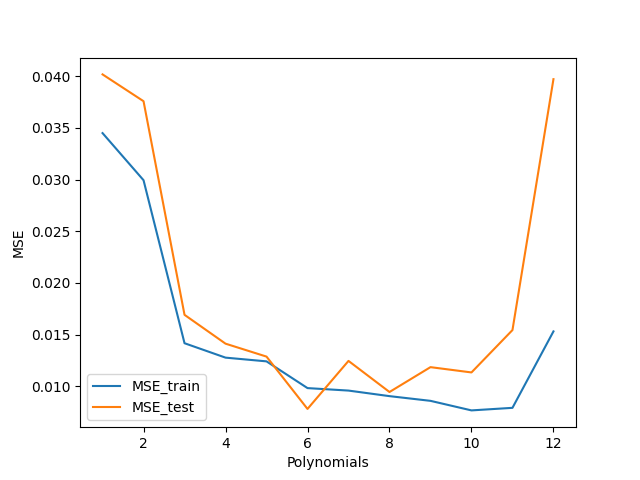
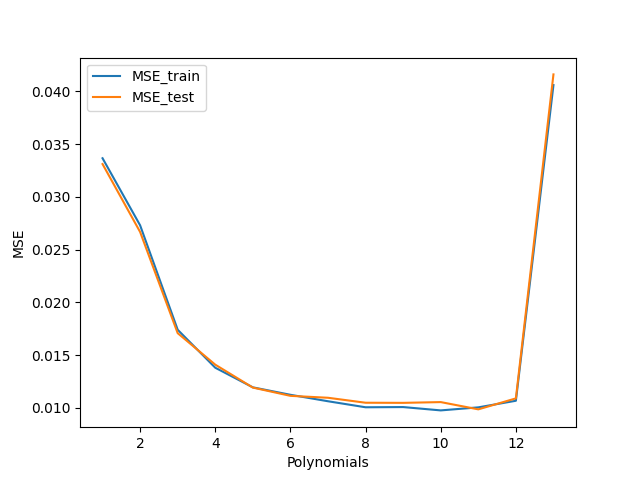
Added needed code for part C, do not remove

diff --git a/FigPartB.py b/FigPartB.py
@@ -1,0 +1,47 @@
+import numpy as np
+import matplotlib.pyplot as plt
+from FrankeFunction import FrankeFunctionNoised
+from design_matrix import create_design_matrix
+from sklearn.model_selection import train_test_split
+from mean_square_error import MSE
+
+
+def plot_MSE_variance(x,y):
+    num = 14
+    val = 0.1
+    mse_arr_train = np.zeros(num-1)
+    mse_arr_test = np.zeros(num-1)
+    for i in range(1,num):
+        z = FrankeFunctionNoised(x,y, val)
+        z = z.ravel()
+        X = create_design_matrix(x,y, i)
+        X_train, X_test, z_train, z_test= train_test_split(X, z, test_size=0.2)
+        #Scaling
+        #X_train = (X_train - np.mean(X_train))/np.std(X_train)
+        #X_test = (X_test - np.mean(X_test))/np.std(X_test)
+        #z_train = (z_train - np.mean(z_train))/np.std(z_train)
+        #z_test = (z_test - np.mean(z_test))/np.std(z_test)
+        
+        beta = np.linalg.inv(X_train.T @ X_train) @ X_train.T @ z_train
+        z_tilde_test = X_test @ beta
+        z_tilde_train = X_train @ beta
+
+        mse_arr_train[i-1] = MSE(z_train, z_tilde_train)
+        mse_arr_test[i-1] = MSE(z_test, z_tilde_test)
+
+    n_arr = np.array([i for i in range(1,num)])
+    plt.plot(n_arr, mse_arr_train, label= "MSE_train")
+    plt.plot(n_arr, mse_arr_test, label= "MSE_test")
+    plt.xlabel("Polynomials")
+    plt.ylabel("MSE")
+    plt.legend()
+    plt.savefig("MSE_test_train.png")
+    plt.show()
+
+
+if __name__ == "__main__":
+    np.random.seed(12)
+    x = np.arange(0, 1, 0.01)   
+    y = np.arange(0, 1, 0.01)
+    x, y = np.meshgrid(x,y)
+    plot_MSE_variance(x,y)
